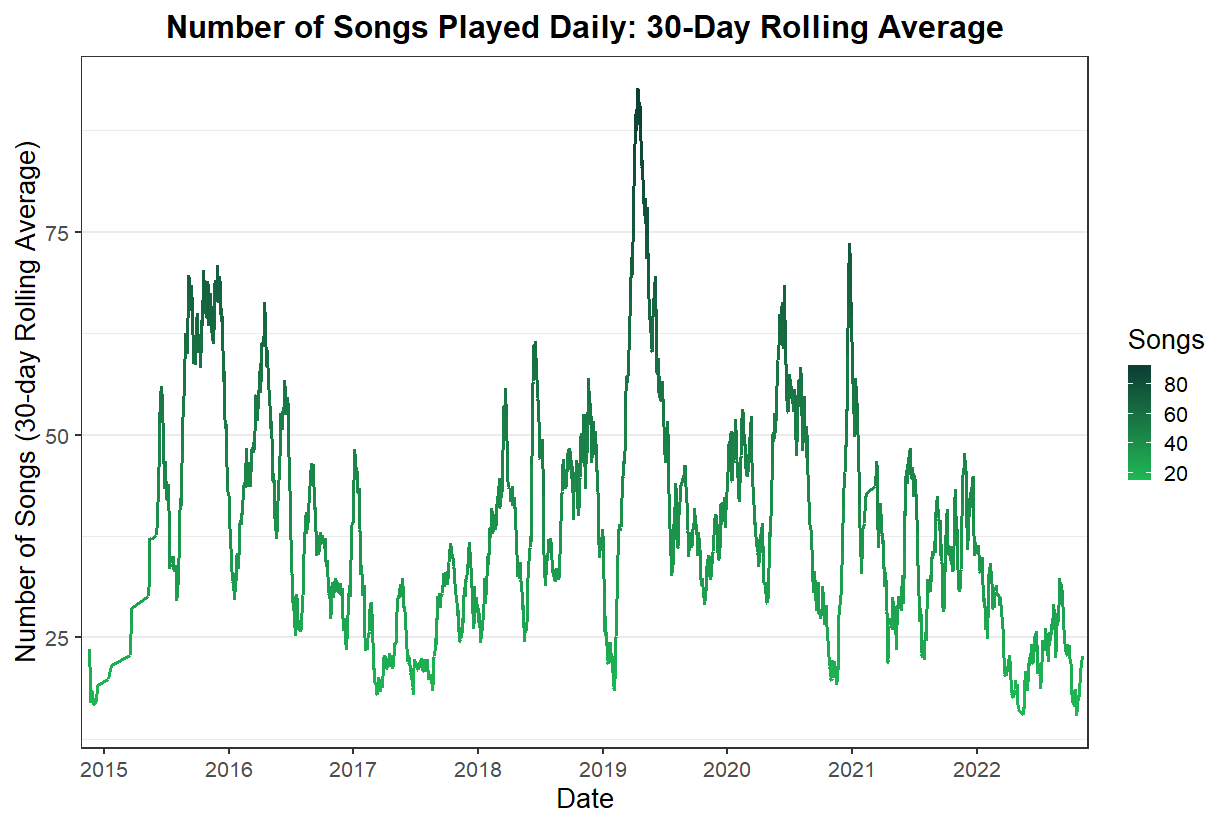
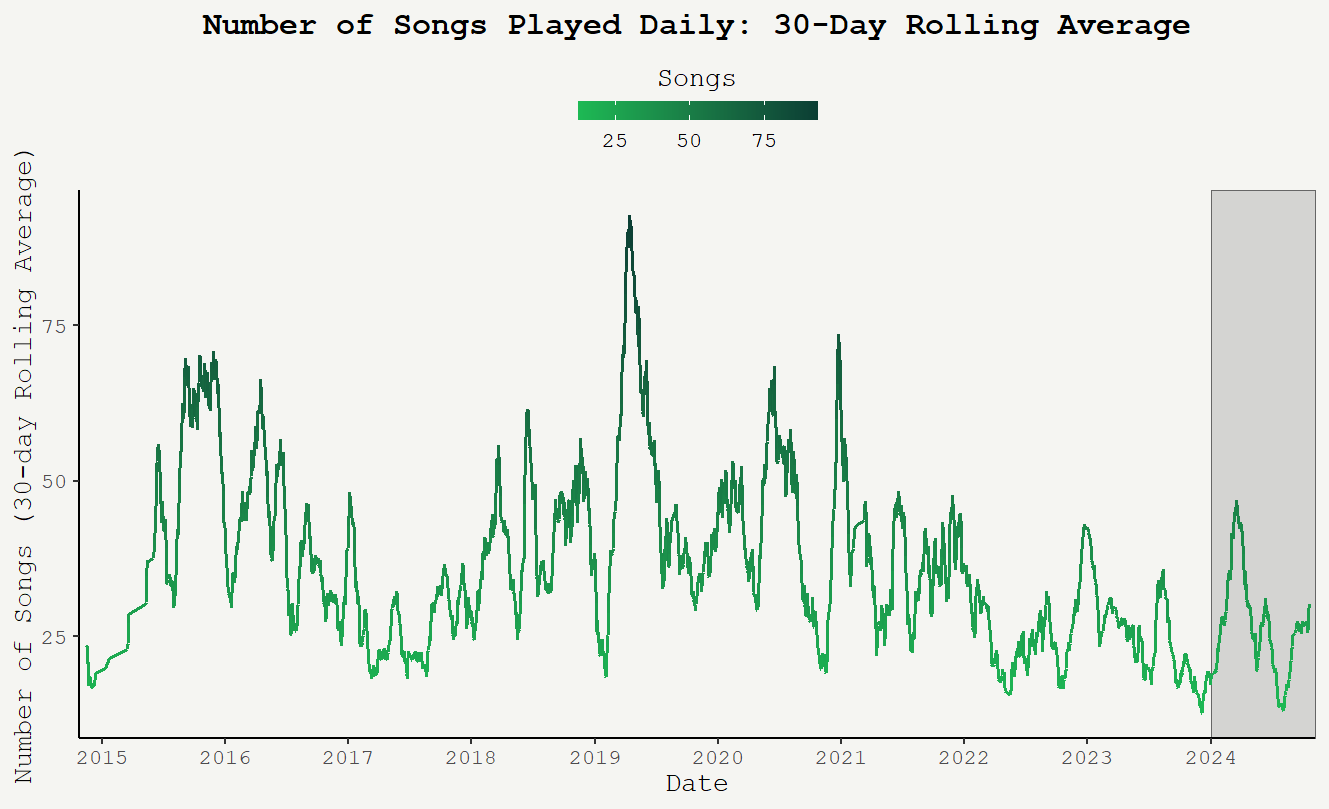
redirect

diff --git a/content/posts/Data Analysis/spotify/index.md b/content/posts/Data Analysis/spotify/index.md
@@ -32,18 +32,17 @@ To export your Spotify data, you will need to do so from the Spotify app. Once y
 
 ## Daily Songs
 
-This plot visualizes the number of songs I listened to daily over a seven-year period, from 2015 to 2022, using a 30-day rolling average. The rolling average smooths out day-to-day fluctuations in my listening habits, providing a clearer view of broader trends. Each point on the graph represents the average number of songs played per day over the preceding 30 days, helping to highlight periods of more consistent or heavy listening activity.
+This plot visualizes the number of songs I listened to daily over a seven-year period, from 2015 to 2024, using a 30-day rolling average. The rolling average smooths out day-to-day fluctuations in my listening habits, providing a clearer view of broader trends. Each point on the graph represents the average number of songs played per day over the preceding 30 days, helping to highlight periods of more consistent or heavy listening activity.
 
-Peaks in the plot indicate times when I was regularly playing 75-100 songs a day on average, suggesting phases of increased music engagement, possibly driven by discovering new music, particular life events, or seasonal patterns.
-Valleys in the plot reflect periods of reduced listening, where the average dropped closer to 25-30 songs per day.
+Peaks in the plot indicate times when I was regularly playing 75-100 songs a day on average, suggesting phases of increased music engagement, possibly driven by discovering new music, particular life events, or seasonal patterns. Valleys in the plot reflect periods of reduced listening, where the average dropped closer to 25-30 songs per day.
 
-The use of a gradient color scheme further emphasizes the number of songs, with darker greens representing higher average song counts. This plot reveals interesting patterns in my listening habits over time, showing that my highest levels of music engagement occurred between 2015 and 2019, while there were more fluctuations in subsequent years.
+This plot reveals interesting patterns in my listening habits over time, showing that my highest levels of music engagement occurred between 2015 and 2019, while there were more fluctuations in subsequent years, and a drop-off from 2022-2024. 
 
 {{< img src="listening_day.png" align="center" >}}
 
 ## Monthly Songs
 
-This plot visualizes the average number of songs played per month from 2015 to 2022, faceted by year. The data reveals interesting listening patterns over the years, highlighting seasonal trends, fluctuations in music engagement, and potential yearly shifts.
+This plot visualizes the total number of songs played per month from 2015 to 2024, faceted by year. The data reveals interesting listening patterns over the years, highlighting seasonal trends, fluctuations in music engagement, and potential yearly shifts.
 
 **2015-2016:** These years show steady growth in monthly listening habits, with peaks around the middle of each year. Notably, 2016 had more consistent engagement, with no extreme lows, suggesting a balanced pattern of music listening throughout the year.
 
@@ -52,6 +51,8 @@ This plot visualizes the average number of songs played per month from 2015 to 2
 **2020:** In 2020, there was a significant shift in listening habits, possibly tied to the global pandemic, with peaks in June and December. The data suggests increased engagement during lockdown months, potentially as a form of coping or escape during periods of restricted movement.
 
 **2021-2022:** These years reflect more irregular patterns, with fewer pronounced peaks compared to earlier years. December 2021 shows an increase, possibly reflecting end-of-year music engagement, but 2022 reveals a decline overall, with no standout months for high engagement.
+
+**2022-2024:** During these years, the number of songs I listened to seems to even out, and remains consistent. This is likely due to me solidifying a routine around the job I started in 2022. 
 
 Key Observations:
 
